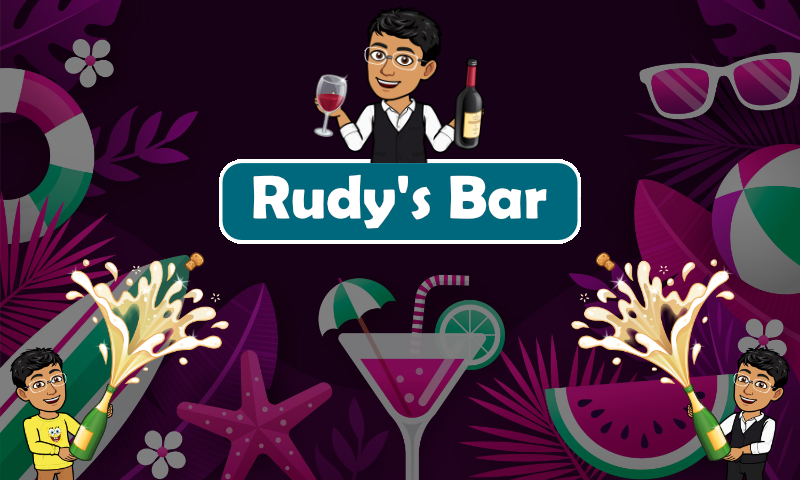
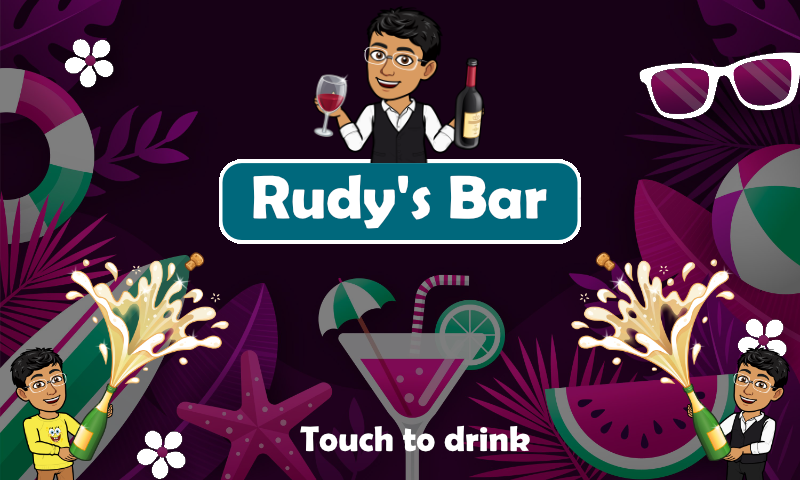
created screensaver

diff --git a/cm_gui.py b/cm_gui.py
@@ -16,20 +16,21 @@ class AnimatedBackground(Screen):
     def __init__(self, **kwargs):
         super(AnimatedBackground, self).__init__(**kwargs)
         with self.canvas.before:
-            self.color = Color(1, 0, 0, 1)  # Initial color red
+            # Initial color red
+            self.color_instruction = Color(1, 0, 0, 1)  
             self.rect = Rectangle(size=Window.size)
 
         # Animate background color
         self.animate_background()
 
     def animate_background(self):
-        # Create an animation sequence to change the color
-        anim = Animation(color=(0, 1, 0, 1), duration=2) + \
-               Animation(color=(0, 0, 1, 1), duration=2) + \
-               Animation(color=(1, 1, 0, 1), duration=2) + \
-               Animation(color=(1, 0, 1, 1), duration=2)
+        # Animate the rgba property of the color instruction
+        anim = Animation(rgba=(0, 1, 0, 1), duration=4) + \
+               Animation(rgba=(0, 0, 1, 1), duration=4) + \
+               Animation(rgba=(1, 1, 0, 1), duration=4) + \
+               Animation(rgba=(1, 0, 1, 1), duration=4)
         anim.repeat = True
-        anim.start(self.color)
+        anim.start(self.color_instruction)
 
 
 class ScreensaverScreen(Screen):
@@ -39,8 +40,13 @@ class ScreensaverScreen(Screen):
         self.add_widget(self.animated_background)
 
         # Then add your screensaver image on top
-        self.screensaver_image = Image(source='your_screensaver_image.png', allow_stretch=True)
-        self.screensaver_image.size = Window.size
+        self.screensaver_image = Image(
+            source='screensaver.png',
+            allow_stretch=True,  # Allow the image to be scaled
+            keep_ratio=True,  # Keep the image's aspect ratio
+            size_hint=(1, 1),  # The image will fill its parent
+        )
+        self.screensaver_image.pos_hint = {'center_x': 0.5, 'center_y': 0.557}
         self.add_widget(self.screensaver_image)
 
         super(ScreensaverScreen, self).on_enter(*args)
